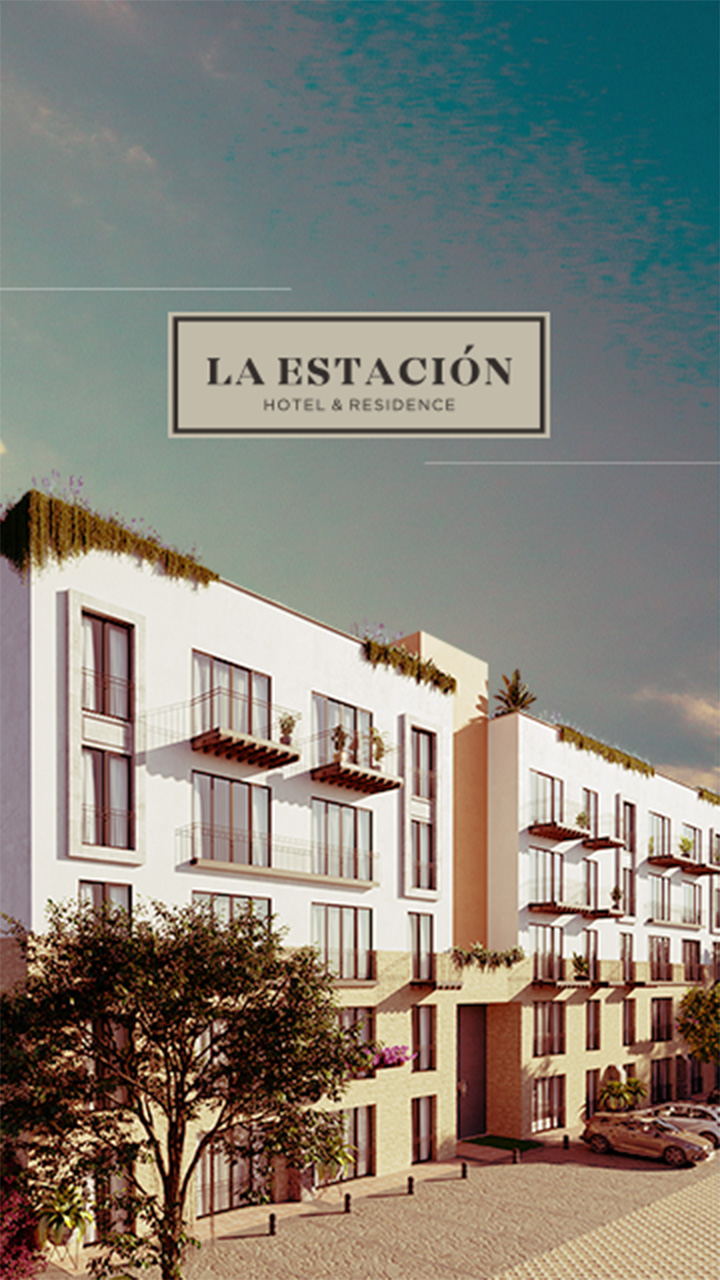
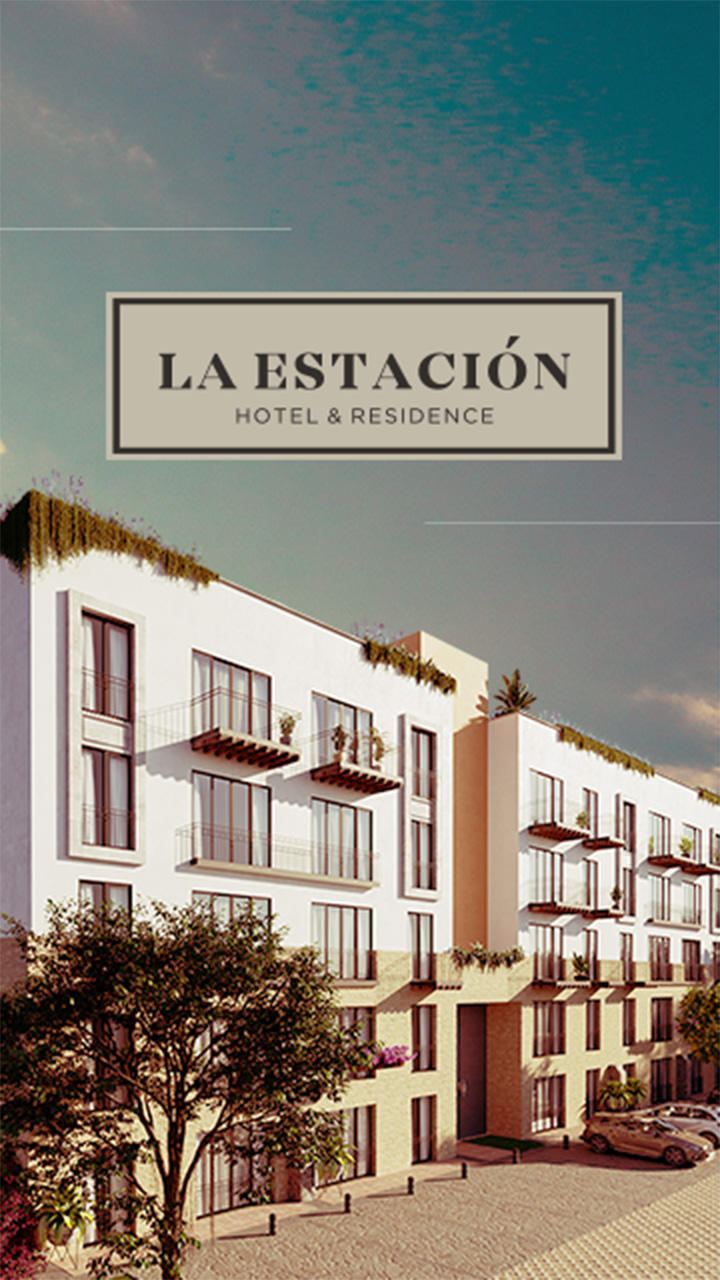
pag proyecto modificacion

Changed region(s): [[0.1222, 0.2188, 0.8861, 0.375]]

diff --git a/public/css/proyecto.css b/public/css/proyecto.css
@@ -8,19 +8,10 @@ footer{
 .proyecto_head{
    background-color: var(--Primary);
    padding: 10px;
-}
-.proyecto_head > p{
    font-family: 'Brygada 1918', serif;
    color: #ffffff;
-   font-size: 63px;
-  font-weight: normal;
-  font-stretch: normal;
-  font-style: normal;
-  line-height: 61px;
-  letter-spacing: -3.78px;
-  text-align: center;
 }
-.text-accent{
+.sma_accent{
    color: var(--Secondary);
 }
 .text-small{
@@ -35,8 +26,9 @@ footer{
    height: 547px;
    padding-top: 78px;
 }
+.proyecto_head_desktop{display: none;}
 
-.proyecto_middle > p {
+.sma_subtext {
    text-align: center;
    font-family: 'Encode Sans', sans-serif;
    font-size: 16px;
@@ -69,6 +61,9 @@ footer{
   line-height: 1.11;
   letter-spacing: 5.4px;
   color: var(--FontDark);
+}
+.proyecto_banner > h1{
+   font-size: 27px;
 }
 
 /***************************/
@@ -257,3 +252,98 @@ footer{
    transform: translateY(-5px);
 }
 
+
+
+/********* Media Query On screens that are 992px or more ************/
+@media screen and (min-width: 992px) {
+   body{
+      background: var(--Primary);
+      background: linear-gradient(180deg, var(--Primary) 518px, rgba(255,255,255,1) 518px);
+   }
+
+   .proyecto_head{
+      display: none;
+   }
+   .proyecto_head_desktop{
+      display: inherit;
+      font-family: 'Brygada 1918', serif;
+      color: #ffffff;
+   }
+   .sma_top{
+      font-size: 90px;
+      font-weight: normal;
+      font-stretch: normal;
+      font-style: normal;
+      line-height: normal;
+      letter-spacing: -5.4px;
+      text-align: left;
+   }
+   .sma_middle{
+      font-size: 55.5px;
+      font-weight: normal;
+      font-stretch: normal;
+      font-style: normal;
+      line-height: normal;
+      letter-spacing: -3.33px;
+      text-align: left;
+   }
+   .sma_bottom{
+      font-size: 90px;
+      font-weight: normal;
+      font-stretch: normal;
+      font-style: normal;
+      line-height: normal;
+      letter-spacing: -5.4px;
+      text-align: left;
+   }
+   .sma_subtext{
+      font-size: 24px;
+      font-weight: 300;
+      font-stretch: normal;
+      font-style: normal;
+      line-height: 1.25;
+      letter-spacing: normal;
+      text-align: right;
+   }
+
+   .proyecto_middle{
+      height: 1167px;
+      padding: 75px 240px;
+      box-sizing: border-box;
+   }
+
+   .proyecto_banner{
+      grid-gap: 18px;
+      gap: 18px;
+      margin: 50px 0 100px 0;
+   }
+   .proyecto_banner > h3{
+      font-size: 20.5px;
+   }
+   .proyecto_banner > h1{
+      font-size: 44.5px;
+   }
+
+   /************/
+   .proyecto_modelos{
+      
+   }
+
+   /****************/
+   .container {
+    background-color: #fff;
+    width: auto;
+    position: relative;
+    overflow: hidden;
+    padding-bottom: 100px;
+    margin: 0 240px;
+    box-sizing: content-box;
+   }
+   footer {
+    visibility: inherit;
+   }
+} /**/
+
+
+
+ 

diff --git a/public/css/ubicacion.css b/public/css/ubicacion.css
@@ -62,7 +62,7 @@
 
 /************ Draggable *****************/
 #drag-1, #drag-2 {
-  width: 250%;
+  /* width: 250%; */
   /* min-height: 6.5em; */
   /* margin: 1rem 0 0 1rem; */
   /* background-color: #29e; */
@@ -71,10 +71,12 @@
   /* padding: 4%; */
   touch-action: none;
   user-select: none;
-  -webkit-transform: translate(-50px, -130px);
-  transform: translate(-50px, -130px)
+  /* -webkit-transform: translate(-50px, -130px); */
+  /* transform: translate(-50px, -130px) */
 }
-
+.gesture-area{
+  box-sizing: border-box;
+}
 
 /********* Media Query On screens that are 600px or more ************/
 @media screen and (min-width: 600px) {
@@ -82,9 +84,10 @@
     max-width: 600px;
     max-height: 600px;
     margin: 0 auto;
+    box-sizing: border-box;
   }
   #drag-1, #drag-2 {
-    width: 200%;
+    width: 2000px;
     /* min-height: 6.5em; */
     /* margin: 1rem 0 0 1rem; */
     /* background-color: #29e; */
@@ -93,8 +96,8 @@
     /* padding: 4%; */
     touch-action: none;
     user-select: none;
-    -webkit-transform: translate(-30px, -360px);
-    transform: translate(-30px, -360px);
+    /* -webkit-transform: translate(-30px, -360px);
+    transform: translate(-30px, -360px); */
   }
 
 }

diff --git a/public/css/header_footer.css b/public/css/header_footer.css
@@ -69,7 +69,7 @@ footer{
    grid-template-rows: 17px 21px;
    bottom: 0;
    justify-items:center;
-   background-color: #fff;
+   background-color: unset;
 }
 footer > .acento{
    align-self: end;
@@ -162,3 +162,44 @@ footer > .acento{
     opacity: .1;
   }
 }
+
+
+
+/********* Media Query On screens that are 992px or more ************/
+@media screen and (min-width: 992px) {
+  .menu_top {
+    top:106px;
+    padding-top: 50px;
+  }
+  header {
+    background-color: var(--Primary);
+    width: auto;
+    height: 106px;
+    padding: 0 240px;
+    display: grid;
+    grid-template-columns: 94px auto 35px;
+    align-items: flex-end;
+    position: sticky;
+    top: 0;
+    z-index: 51;
+    box-shadow: 1px 1px 2px rgba(0, 0, 0, 0.1);
+  }
+  .header_logo > img {
+    width: 94px;
+    height: 101px;
+    background-color: var(--Primary);
+    padding-top: 50px;
+  }
+  .whats_icon {
+    width: 36px;
+    margin-top: 53px;
+  }
+  .header_menu > img {
+    height: 26px;
+    width: 32px;    
+  }
+  .tel_icon{
+    display: none;
+  }
+} /**/
+

diff --git a/public/css/beneficios.css b/public/css/beneficios.css
@@ -160,3 +160,24 @@
    }
 
 } /*600px*/
+
+@media screen and (min-width: 992px) {
+   .blog_title_right{
+      right: 16%;
+      font-size: 50.5px;
+      font-weight: normal;
+      font-stretch: normal;
+      font-style: normal;
+      line-height: 1;
+      letter-spacing: -1.52px;
+   }
+   .blog_title_left{
+      left: 16%;
+      font-size: 50.5px;
+      font-weight: normal;
+      font-stretch: normal;
+      font-style: normal;
+      line-height: 1;
+      letter-spacing: -1.52px;
+   }
+} /**/

diff --git a/public/js/inicio.js b/public/js/inicio.js
@@ -126,7 +126,7 @@ document.addEventListener('touchmove', function (e) {
    document.querySelectorAll('.slide_header_txt').forEach((i, ï, ä)=>{
       i.innerText = 'Y:' + Math.floor(e.touches[0].clientY) + ' X:' + Math.floor(e.touches[0].clientX);
    });
-   if (e.target.classList.contains('swipe')) {      
+   if (e.target.classList.contains('swipe')) {
       e.stopPropagation();
    finalCoordsX = e.touches[0].clientX;
    finalCoordsY = e.touches[0].clientY;
